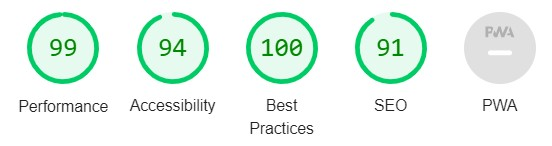
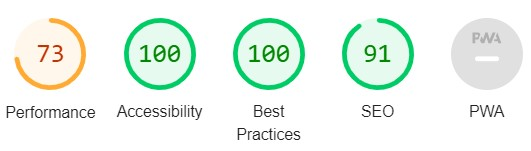
final lighthouse report, assess project open issues and update readme.md

diff --git a/assets/js/script.js b/assets/js/script.js
@@ -13,7 +13,7 @@ let currentProgress = 1;
 
 // select the reset button to reload the game
 let resetButton = document.getElementById('reset-timer');
-    resetButton.addEventListener('click',() => {window.location.reload()})
+    resetButton.addEventListener('click',() => {window.location.reload();});
 
 // select the help button to for the game rules
 let helpButton = document.getElementById('game-help');
@@ -36,9 +36,9 @@ function startCountdown() {
             event.preventDefault();
             submitFinalCalc();
         }
-    })
+    });
 
-    resetButton.addEventListener('click',() => {window.location.reload()});
+    resetButton.addEventListener('click',() => {window.location.reload();});
 }
 
 // Digital timer displays the time remaining
@@ -51,7 +51,7 @@ function countingDown() {
     } else {
         clearInterval(interval);
         bombExplodes();
-        setTimeout(() => {window.location.reload()}, 10500)
+        setTimeout(() => {window.location.reload();}, 10500);
     } 
 }
 
@@ -83,8 +83,7 @@ function startMath() {
     // Submit button replaces the Start button
     document.getElementById('start-box').innerHTML = `
         <button id="submit-calc">SUBMIT</button>
-    `;
-    
+    `;  
 }
 
 /**
@@ -178,8 +177,7 @@ function submitFinalCalc() {
                 if (event.key === "Enter") {
                     submitFinalCalc();
                 }
-            })
-
+            });
         } else {
             clearInterval(interval);
             gameComplete();
@@ -188,7 +186,7 @@ function submitFinalCalc() {
     } else {
         clearInterval(interval);
         bombExplodes();
-        setTimeout(() => {window.location.reload()}, 10500);
+        setTimeout(() => {window.location.reload();}, 10500);
     }
 }
 
@@ -249,7 +247,7 @@ function arrayComparison(numIntArray, randomIntArray) {
     if (numIntArray.length > 0) {
         clearInterval(interval);
         bombExplodes();
-        setTimeout(() => {window.location.reload()}, 10500)
+        setTimeout(() => {window.location.reload();}, 10500);
     }
 }
 

diff --git a/assets/css/style.css b/assets/css/style.css
@@ -1,4 +1,4 @@
-/*Google font similiar to chalk-style writing appearing on a blackboard*/
+/* Google font similiar to chalk-style writing appearing on a blackboard */
 @import url('https://fonts.googleapis.com/css2?family=Fredericka+the+Great&family=Open+Sans&display=swap');
 
 /* Global style */

diff --git a/README.md b/README.md
@@ -1,5 +1,8 @@
 <h1 align="center">Maths Bomb</h1>
-<p>A game where the player has to answer three maths question correctly before the countdown timer elapses and the maths bomb explodes. Created as part of the Code Institue Portfolio 2: Javascript Essentials Milestone Project.</p>
+<p>A game where the player has to answer three maths question correctly before the countdown timer elapses and the maths bomb explodes. Created as part of the Code Institue Portfolio 2: Javascript Essentials Milestone Project 
+
+Live link - [Maths Bomb](https://juliandunne1234.github.io/math-bombs/)
+</p>
 
 ***
 
@@ -107,11 +110,13 @@
 
 * CSS - no errors found when passing style.css content through the [Jigsaw validator](https://jigsaw.w3.org/css-validator/validator)
 
-* JSHINT - no errors and 39 warnings found when passing script.js file through [jshint](https://jshint.com/). Warnings do not impact running of the game and are limitec to the following:
+* JSHINT - no errors and 52 warnings found when passing script.js file through [jshint](https://jshint.com/). Warnings do not impact running of the game and are limitec to the following:
     * 	'let' is available in ES6 (use 'esversion: 6') or Mozilla JS extensions (use moz)
-    * 	'template literal syntax' is only available in ES6 (use 'esversion: 6').
+    *   'arrow function syntax (=>)' is only available in ES6 (use 'esversion: 6')
+    * 	'template literal syntax' is only available in ES6 (use 'esversion: 6')
+    *   'eval can be hamrful' - see more on this in [Issues List](#Issues-List)
 
-* Accessibility - Website accessibility is a key part of the project criteria. Devtools Lighthouse was used to confirm the colors and fonts used in each page are easy to read and accessible.
+* Website accessibility is a key part of the project criteria. Devtools Lighthouse was used to confirm the colors and fonts used in each page are easy to read and accessible however the performance scores is low - see more on this in [Issues List](#Issues-List)
 
 <p align="center">
 
@@ -142,9 +147,9 @@
 ***
 
 ## Issues List
-* Open Issues:
-    * Setting relative and absolute positioning on each web page so that the full screen size is used by the page. Instead there is whitespace remaining at the bottom of the pages.
-<br><br>
+* 'eval can be hamrful' - warning generated as part of the JSHINT code review of the javascript file. When writing the code it was understood that using the eval method in javascript is not desireable. A reason for this is that the code can become corrupted by third parties. An example of this can be seen in the game where if the user inputs "alert('I can avoid the game rules')" a pop up window with the alert message displayed appears in the window. This obviously is not meant to be a feature of the game. The game will ultimately fail once this alert window is closed however it does show a bug in the code that was not possible to completely eliminate.
+* The Lighthouse report has given a performance score of 73. The low performance score is noticeable from the game load time. The report says the hero-image size is an issue however this had not been an issue in previous iterations of the game. It seems to have started when backgound white space was removed for the game window and max-width and media queries were modified.
+***
 * Resolved Issues:
     * Stopping the timer at 00.00 seconds
     * Maintaining the timer format 00.09 once the timer was below 10 seconds
@@ -165,4 +170,5 @@
 * All images and the video used in this project were found on the [pexels](https://www.pexels.com/) website
 * Fonts used were imported from [Google Fonts](https://fonts.google.com/)
 * Gym dumbell icon used throughout the website is taken from [Font Awesome](https://fontawesome.com/)
+* Pop up window displayed as part of the game is taken from [sweetalert2](https://sweetalert2.github.io/)
 ***
